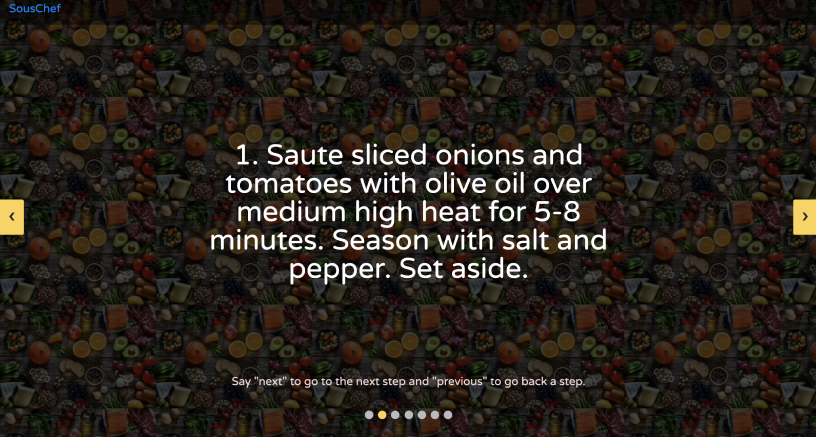
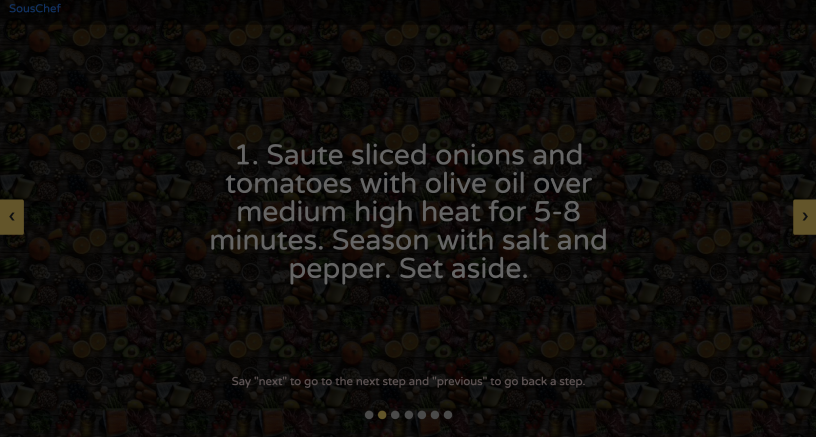
fixed some bugs

diff --git a/src/components/AboutMe.module.css b/src/components/AboutMe.module.css
@@ -25,6 +25,7 @@
   width: 333px;
   box-shadow: 0px 0px 10px 5px rgba(255, 255, 255, 0.25);
   border-radius: 80px;
+  margin-bottom: 50px;
 }
 
 .subtitle {
@@ -54,6 +55,7 @@
   display: flex;
   flex-wrap: wrap;
   box-sizing: border-box;
+  margin-bottom: 50px;
 }
 
 @media only screen and (max-width: 941px) {
@@ -67,7 +69,7 @@
     order: 2;
     width: 264px;
     border-radius: 60px;
-    margin-top: -100px;
+    /* margin-top: -100px; */
   }
 
   /* Description */

diff --git a/src/components/Project.module.css b/src/components/Project.module.css
@@ -23,8 +23,9 @@
 }
 
 .subcontainer {
-  backdrop-filter: brightness(0.25);
-  height: 100%;
+  /* backdrop-filter: brightness(0.25); */
+  position: relative;
+  height: 90%;
   width: 100%;
   display: flex;
   justify-content: center;
@@ -92,6 +93,7 @@ li {
   z-index: 999;
   bottom: 24px;
   right: 24px;
+  position: absolute;
 }
 
 .links > a {

diff --git a/src/components/Project.js b/src/components/Project.js
@@ -27,7 +27,7 @@ export default function Project(props) {
             ))}
           </ul>
         </div>
-        <div className={styles.links} style={{ position: "absolute" }}>
+        <div className={styles.links}>
           <a href={link} rel="noopener noreferrer" target="_blank">
             <img src={linkIcon} alt="link" />
           </a>
